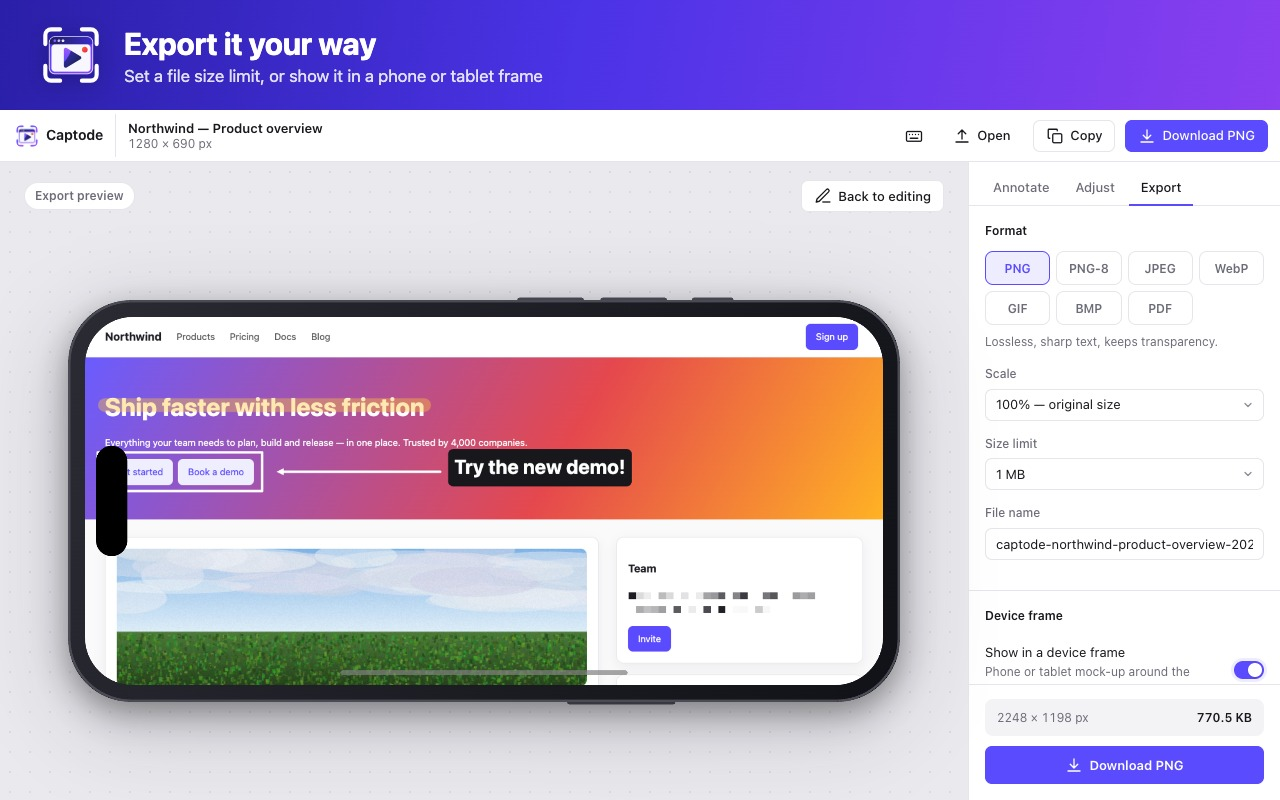
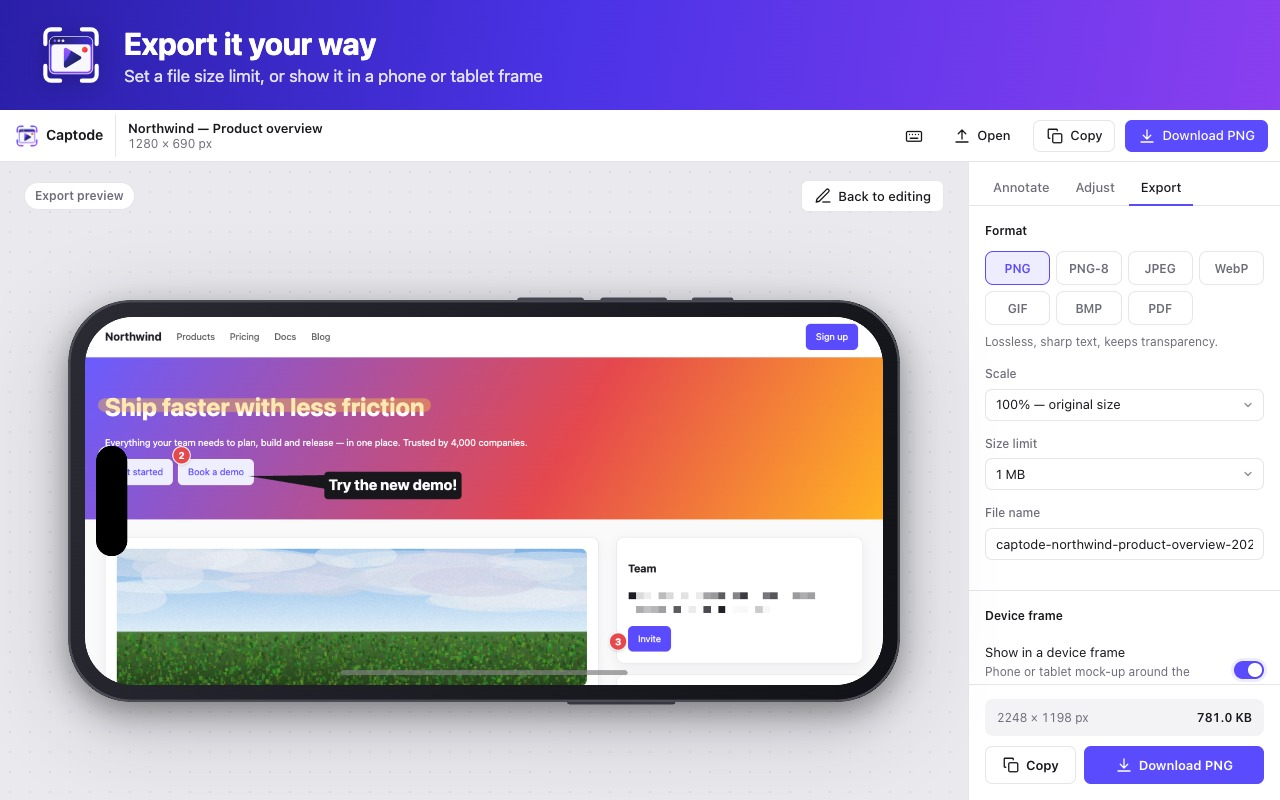
Editor: rotate and flip, zoom at the pointer, snapping, align and distribute
- Rotate a quarter turn either way, flip horizontally or vertically; annotations
  follow (text stays upright)
- Cmd/Ctrl + scroll and pinch zoom towards the pointer; buttons and keys zoom about
  the centre
- Moving and resizing snap edges and centres to the image and other annotations,
  with guide lines; Alt places freely
- Align left/centre/right/top/middle/bottom (to each other, or to the image for a
  single item) and space evenly across or down
- Store screenshot 2 shows callouts and numbered steps; README and listing describe
  the new editor

diff --git a/src/editor/editor.js b/src/editor/editor.js
@@ -629,6 +629,19 @@ function renderFg() {
     fctx.strokeRect(b.x - 4 * px, b.y - 4 * px, b.w + 8 * px, b.h + 8 * px);
     fctx.setLineDash([]);
   }
+  if (guides.length) {
+    fctx.save();
+    fctx.strokeStyle = '#ff3d9a';
+    fctx.lineWidth = px;
+    for (const g of guides) {
+      fctx.beginPath();
+      if ('x' in g) { fctx.moveTo(g.x, -frame.padding); fctx.lineTo(g.x, base.height + frame.padding); }
+      else { fctx.moveTo(-frame.padding, g.y); fctx.lineTo(base.width + frame.padding, g.y); }
+      fctx.stroke();
+    }
+    fctx.restore();
+    fctx.strokeStyle = '#5b4bff';
+  }
   if (drag?.kind === 'marquee') {
     const m = rectOf(drag.start, drag.end);
     fctx.fillStyle = 'rgba(91,75,255,0.08)';
@@ -765,6 +778,76 @@ function handles(o) {
   const hs = list.map(([id, hx, hy]) => ({ id, x: xs[hx], y: ys[hy] }));
   if (o.tail) hs.push({ id: 'tail', x: o.tail.x, y: o.tail.y });
   return hs;
+}
+
+// ---------- snapping and alignment ----------
+// Moving or resizing snaps edges and centres to the image's and to other annotations'
+// (hold Alt to place freely), with guide lines showing what lined up.
+
+let guides = []; // { x } or { y }, in image coordinates, while dragging
+
+/** Lines things can snap to: the image's edges and centre, and other annotations'. */
+function snapTargets(exclude) {
+  const xs = [0, base.width / 2, base.width], ys = [0, base.height / 2, base.height];
+  for (const o of objects) {
+    if (exclude.includes(o) || o.type === 'spotlight') continue;
+    const b = bounds(o);
+    xs.push(b.x, b.x + b.w / 2, b.x + b.w);
+    ys.push(b.y, b.y + b.h / 2, b.y + b.h);
+  }
+  return { xs, ys };
+}
+
+/** The smallest shift (within a few screen pixels) that lines one of `xs`/`ys` up with a target. */
+function snap(xs, ys, targets) {
+  const within = 6 / zoom;
+  const best = (vals, tgts) => {
+    let d = Infinity, at = null;
+    for (const v of vals) for (const t of tgts) if (Math.abs(t - v) < Math.abs(d)) { d = t - v; at = t; }
+    return Math.abs(d) <= within ? { d, at } : { d: 0, at: null };
+  };
+  const bx = best(xs, targets.xs), by = best(ys, targets.ys);
+  if (bx.at !== null) guides.push({ x: bx.at });
+  if (by.at !== null) guides.push({ y: by.at });
+  return { dx: bx.d, dy: by.d };
+}
+
+function startMove(pt, moved) {
+  const boxes = selection.map(bounds);
+  const x0 = Math.min(...boxes.map((b) => b.x)), y0 = Math.min(...boxes.map((b) => b.y));
+  const box = { x: x0, y: y0, w: Math.max(...boxes.map((b) => b.x + b.w)) - x0, h: Math.max(...boxes.map((b) => b.y + b.h)) - y0 };
+  return { kind: 'move', origin: pt, moved, from: selection.map(cloneObj), box, targets: snapTargets(selection) };
+}
+
+/** Lines the selection up: with one item, against the image; with more, against each other. */
+function align(how) {
+  if (!selection.length) return;
+  const boxes = selection.map(bounds);
+  const U = selection.length === 1 ? { x: 0, y: 0, w: base.width, h: base.height } : (() => {
+    const x0 = Math.min(...boxes.map((b) => b.x)), y0 = Math.min(...boxes.map((b) => b.y));
+    return { x: x0, y: y0, w: Math.max(...boxes.map((b) => b.x + b.w)) - x0, h: Math.max(...boxes.map((b) => b.y + b.h)) - y0 };
+  })();
+  if (how === 'dist-h' || how === 'dist-v') {
+    if (selection.length < 3) return;
+    const h = how === 'dist-h';
+    const order = selection.map((o, i) => ({ o, b: boxes[i] })).sort((a, b) => (h ? a.b.x - b.b.x : a.b.y - b.b.y));
+    const total = order.reduce((n, { b }) => n + (h ? b.w : b.h), 0);
+    const gap = ((h ? U.w : U.h) - total) / (order.length - 1);
+    let at = h ? U.x : U.y;
+    for (const { o, b } of order) {
+      moveObj(o, h ? at - b.x : 0, h ? 0 : at - b.y);
+      at += (h ? b.w : b.h) + gap;
+    }
+  } else {
+    selection.forEach((o, i) => {
+      const b = boxes[i];
+      const dx = { left: U.x - b.x, centre: U.x + U.w / 2 - (b.x + b.w / 2), right: U.x + U.w - (b.x + b.w) }[how] ?? 0;
+      const dy = { top: U.y - b.y, middle: U.y + U.h / 2 - (b.y + b.h / 2), bottom: U.y + U.h - (b.y + b.h) }[how] ?? 0;
+      moveObj(o, dx, dy);
+    });
+  }
+  renderFg();
+  commit();
 }
 
 const handleAt = (o, pt) => handles(o).find((h) => Math.hypot(h.x - pt.x, h.y - pt.y) <= 9 / zoom) || null;
@@ -980,7 +1063,7 @@ fg.addEventListener('pointerdown', (e) => {
       else drag = { kind: 'marquee', start: pt, end: pt, add: [...selection] };
     } else if (hit) {
       if (!isSelected(hit)) select([hit]);
-      drag = { kind: 'move', last: pt, moved: false };
+      drag = startMove(pt, false);
     } else {
       select([]);
       drag = { kind: 'marquee', start: pt, end: pt, add: [] };
@@ -1028,13 +1111,13 @@ fg.addEventListener('pointerdown', (e) => {
     const hit = topHit(pt);
     if (hit?.type === 'step') {
       select([hit]);
-      drag = { kind: 'move', last: pt, moved: false };
+      drag = startMove(pt, false);
     } else {
       select([{ type: 'step', ...propsFor('step'), n: nextStep(), x: pt.x, y: pt.y }]);
       objects.push(selected);
       lastStep = selected;
       stepStart = null;
-      drag = { kind: 'move', last: pt, moved: true }; // drag to place it exactly
+      drag = startMove(pt, true); // drag to place it exactly
     }
     syncStyleUi();
     renderFg();
@@ -1066,7 +1149,16 @@ fg.addEventListener('pointermove', (e) => {
     if (drag.h === 'tail') o.tail = { x: pt.x, y: pt.y };
     else if (drag.h === 'p1') { o.x1 = pt.x; o.y1 = pt.y; }
     else if (drag.h === 'p2') { const q = snapEnd(o, pt, e.shiftKey); o.x2 = q.x; o.y2 = q.y; }
-    else applyBox(o, drag.from, drag.box, resizedBox(drag.box, drag.h, pt, UNIFORM.has(o.type) || e.shiftKey));
+    else {
+      guides = [];
+      const q = { ...pt };
+      if (!e.altKey) {
+        const t = snapTargets([o]);
+        const s = snap(/[we]/.test(drag.h) ? [pt.x] : [], /[ns]/.test(drag.h) ? [pt.y] : [], t);
+        q.x += s.dx; q.y += s.dy;
+      }
+      applyBox(o, drag.from, drag.box, resizedBox(drag.box, drag.h, q, UNIFORM.has(o.type) || e.shiftKey));
+    }
   } else if (drag.kind === 'marquee') {
     drag.end = pt;
     const m = rectOf(drag.start, pt);
@@ -1074,9 +1166,16 @@ fg.addEventListener('pointermove', (e) => {
     select([...new Set([...drag.add, ...inBox])]);
     syncStyleUi();
   } else if (drag.kind === 'move') {
-    for (const o of selection) moveObj(o, pt.x - drag.last.x, pt.y - drag.last.y);
-    drag.last = pt;
-    drag.moved = true;
+    // From where the drag began, so snapping doesn't accumulate.
+    let dx = pt.x - drag.origin.x, dy = pt.y - drag.origin.y;
+    guides = [];
+    if (!e.altKey) {
+      const b = drag.box;
+      const s = snap([b.x + dx, b.x + b.w / 2 + dx, b.x + b.w + dx], [b.y + dy, b.y + b.h / 2 + dy, b.y + b.h + dy], drag.targets);
+      dx += s.dx; dy += s.dy;
+    }
+    drag.from.forEach((f, i) => { Object.assign(selection[i], structuredClone(f)); moveObj(selection[i], dx, dy); });
+    drag.moved ||= Math.hypot(dx, dy) > 0;
   } else if (drag.kind === 'crop') {
     const s = drag.start;
     let w = pt.x - s.x;
@@ -1119,6 +1218,7 @@ function endDrag() {
   if (!drag) return;
   const d = drag;
   drag = null;
+  guides = [];
   if (d.kind === 'draw') {
     const o = d.o;
     const tiny = !o.points && Math.hypot(o.x2 - o.x1, o.y2 - o.y1) < 3;
@@ -1177,8 +1277,23 @@ addEventListener('blur', () => setSpacePan(false));
 stage.addEventListener('wheel', (e) => {
   if (!e.ctrlKey && !e.metaKey) return;
   e.preventDefault();
-  setZoom(zoom * (e.deltaY < 0 ? 1.1 : 1 / 1.1));
+  // Trackpad pinches arrive as small steps, mouse wheels as large ones.
+  const f = Math.exp(-clamp(e.deltaY, -50, 50) * 0.01);
+  zoomAt(zoom * f, e.clientX, e.clientY);
 }, { passive: false });
+
+/** Zooms keeping the point under (cx, cy) on screen still. */
+function zoomAt(z, cx, cy) {
+  if (!base) return;
+  const before = wrap.getBoundingClientRect();
+  const ix = (cx - before.left) / zoom, iy = (cy - before.top) / zoom;
+  setZoom(z);
+  const after = wrap.getBoundingClientRect();
+  stage.scrollLeft += after.left + ix * zoom - cx;
+  stage.scrollTop += after.top + iy * zoom - cy;
+  requestRender(true);
+}
+const stageCentre = () => { const r = stage.getBoundingClientRect(); return [r.left + r.width / 2, r.top + r.height / 2]; };
 
 // ---------- inspector tabs ----------
 
@@ -1307,8 +1422,8 @@ document.addEventListener('keydown', (e) => {
   if (mod) return;
   const t = TOOLS.find(([, , key]) => key === e.key.toLowerCase());
   if (t) setTool(t[0]);
-  if (e.key === '+' || e.key === '=') setZoom(zoom * 1.25);
-  if (e.key === '-') setZoom(zoom / 1.25);
+  if (e.key === '+' || e.key === '=') zoomAt(zoom * 1.25, ...stageCentre());
+  if (e.key === '-') zoomAt(zoom / 1.25, ...stageCentre());
   if (e.key === '0') fitZoom();
 });
 
@@ -1340,6 +1455,8 @@ function syncStyleUi() {
   for (const g of document.querySelectorAll('[data-group]')) g.classList.toggle('hidden', !groups.includes(g.dataset.group));
   $('#style-hint').classList.toggle('hidden', !!type);
   $('#arrange').classList.toggle('hidden', !selection.length);
+  for (const b of document.querySelectorAll('[data-align^="dist"]')) b.disabled = selection.length < 3;
+  $('#align-label').textContent = selection.length > 1 ? 'Align' : 'Align to the image';
   const n = selection.length;
   $('#style-title').textContent = !type ? 'Annotate'
     : type === 'mixed' ? `${n} items selected`
@@ -1558,6 +1675,50 @@ $('#rs-apply').addEventListener('click', async () => {
   toast(`Resized to ${w} × ${h}`, { kind: 'success' });
 });
 
+/**
+ * Rotates the image a quarter turn (dir 1: clockwise, -1: anticlockwise) or flips it
+ * ('h' or 'v'), taking the annotations with it. Text stays upright, centred where it was.
+ */
+function transformImage(kind) {
+  if (!base) return;
+  const W = base.width, H = base.height;
+  const map = {
+    cw: ([x, y]) => [H - y, x],
+    ccw: ([x, y]) => [y, W - x],
+    h: ([x, y]) => [W - x, y],
+    v: ([x, y]) => [x, H - y],
+  }[kind];
+  const turn = kind === 'cw' || kind === 'ccw';
+  const c = canvas(turn ? H : W, turn ? W : H);
+  const cx = c.getContext('2d');
+  if (kind === 'cw') { cx.translate(H, 0); cx.rotate(Math.PI / 2); }
+  else if (kind === 'ccw') { cx.translate(0, W); cx.rotate(-Math.PI / 2); }
+  else if (kind === 'h') { cx.translate(W, 0); cx.scale(-1, 1); }
+  else { cx.translate(0, H); cx.scale(1, -1); }
+  cx.drawImage(base, 0, 0);
+  for (const o of objects) {
+    if (o.points) o.points = o.points.map(map);
+    else if (o.type === 'text' || o.type === 'step') {
+      const b = o.type === 'text' ? textBox(o) : { x: o.x, y: o.y, w: 0, h: 0 };
+      const [nx, ny] = map([b.x + b.w / 2, b.y + b.h / 2]);
+      o.x = nx - b.w / 2; o.y = ny - b.h / 2;
+      if (o.tail) { const [tx, ty] = map([o.tail.x, o.tail.y]); o.tail = { x: tx, y: ty }; }
+    } else {
+      [o.x1, o.y1] = map([o.x1, o.y1]);
+      [o.x2, o.y2] = map([o.x2, o.y2]);
+    }
+  }
+  base = c;
+  crop = null;
+  layout();
+  fitZoom();
+  commit();
+}
+$('#rot-ccw').addEventListener('click', () => transformImage('ccw'));
+$('#rot-cw').addEventListener('click', () => transformImage('cw'));
+$('#flip-h').addEventListener('click', () => transformImage('h'));
+$('#flip-v').addEventListener('click', () => transformImage('v'));
+
 function setBackdrop(bg) {
   frame.bg = bg;
   syncFrameUi();
@@ -1591,11 +1752,12 @@ for (const id of ['f-pad', 'f-bg', 'f-radius', 'f-shadow']) {
 
 // ---------- zoom & toolbar ----------
 
-$('#zoom-in').addEventListener('click', () => setZoom(zoom * 1.25));
-$('#zoom-out').addEventListener('click', () => setZoom(zoom / 1.25));
+$('#zoom-in').addEventListener('click', () => zoomAt(zoom * 1.25, ...stageCentre()));
+$('#zoom-out').addEventListener('click', () => zoomAt(zoom / 1.25, ...stageCentre()));
 $('#zoom-label').addEventListener('click', () => (zoom === 1 ? fitZoom() : setZoom(1)));
 $('#undo-all').addEventListener('click', undoAll);
 $('#a-front').addEventListener('click', () => arrange(true));
+for (const b of document.querySelectorAll('[data-align]')) b.addEventListener('click', () => align(b.dataset.align));
 $('#a-back').addEventListener('click', () => arrange(false));
 $('#a-dup').addEventListener('click', duplicateSelected);
 $('#a-del').addEventListener('click', deleteSelected);

diff --git a/src/editor/editor.html b/src/editor/editor.html
@@ -178,6 +178,17 @@
             <button class="btn icon" id="a-dup" data-tip="Duplicate  ⌘D"><svg class="i" viewBox="0 0 24 24"><rect x="8" y="8" width="12" height="12" rx="2"/><path d="M4 16V5a1 1 0 0 1 1-1h11M14 11v6M11 14h6"/></svg></button>
             <button class="btn icon" id="a-del" data-tip="Delete  ⌫"><svg class="i" viewBox="0 0 24 24"><path d="M3 6h18M8 6V4h8v2M6 6l1 14h10l1-14"/></svg></button>
           </div>
+          <span class="label" id="align-label">Align</span>
+          <div class="row align-row">
+            <button class="btn icon" data-align="left" data-tip="Align left"><svg class="i" viewBox="0 0 24 24"><path d="M4 3v18"/><rect x="8" y="6" width="12" height="4" rx="1"/><rect x="8" y="14" width="7" height="4" rx="1"/></svg></button>
+            <button class="btn icon" data-align="centre" data-tip="Align centres"><svg class="i" viewBox="0 0 24 24"><path d="M12 3v18"/><rect x="5" y="6" width="14" height="4" rx="1"/><rect x="8" y="14" width="8" height="4" rx="1"/></svg></button>
+            <button class="btn icon" data-align="right" data-tip="Align right"><svg class="i" viewBox="0 0 24 24"><path d="M20 3v18"/><rect x="4" y="6" width="12" height="4" rx="1"/><rect x="9" y="14" width="7" height="4" rx="1"/></svg></button>
+            <button class="btn icon" data-align="top" data-tip="Align top"><svg class="i" viewBox="0 0 24 24"><path d="M3 4h18"/><rect x="6" y="8" width="4" height="12" rx="1"/><rect x="14" y="8" width="4" height="7" rx="1"/></svg></button>
+            <button class="btn icon" data-align="middle" data-tip="Align middles"><svg class="i" viewBox="0 0 24 24"><path d="M3 12h18"/><rect x="6" y="5" width="4" height="14" rx="1"/><rect x="14" y="8" width="4" height="8" rx="1"/></svg></button>
+            <button class="btn icon" data-align="bottom" data-tip="Align bottom"><svg class="i" viewBox="0 0 24 24"><path d="M3 20h18"/><rect x="6" y="4" width="4" height="12" rx="1"/><rect x="14" y="9" width="4" height="7" rx="1"/></svg></button>
+            <button class="btn icon" data-align="dist-h" data-tip="Space evenly across"><svg class="i" viewBox="0 0 24 24"><path d="M3 4v16M21 4v16"/><rect x="9" y="7" width="6" height="10" rx="1"/></svg></button>
+            <button class="btn icon" data-align="dist-v" data-tip="Space evenly down"><svg class="i" viewBox="0 0 24 24"><path d="M4 3h16M4 21h16"/><rect x="7" y="9" width="10" height="6" rx="1"/></svg></button>
+          </div>
         </div>
 
         <div data-group="crop">
@@ -206,6 +217,15 @@
         <div class="row presets">
           <button class="btn" data-pct="0.25">25%</button><button class="btn" data-pct="0.5">50%</button>
           <button class="btn" data-pct="0.75">75%</button><button class="btn primary" id="rs-apply">Resize</button>
+        </div>
+      </section>
+      <section class="section">
+        <h3 class="section-title">Rotate and flip</h3>
+        <div class="row presets">
+          <button class="btn icon" id="rot-ccw" data-tip="Rotate left"><svg class="i" viewBox="0 0 24 24"><path d="M3 12a9 9 0 1 0 3-6.7L3 8"/><path d="M3 3v5h5"/></svg></button>
+          <button class="btn icon" id="rot-cw" data-tip="Rotate right"><svg class="i" viewBox="0 0 24 24"><path d="M21 12a9 9 0 1 1-3-6.7L21 8"/><path d="M21 3v5h-5"/></svg></button>
+          <button class="btn icon" id="flip-h" data-tip="Flip horizontally"><svg class="i" viewBox="0 0 24 24"><path d="M12 3v18"/><path d="M8 7 3 12l5 5V7zM16 7l5 5-5 5V7z"/></svg></button>
+          <button class="btn icon" id="flip-v" data-tip="Flip vertically"><svg class="i" viewBox="0 0 24 24"><path d="M3 12h18"/><path d="M7 8l5-5 5 5H7zM7 16l5 5 5-5H7z"/></svg></button>
         </div>
       </section>
       <section class="section">
@@ -316,10 +336,11 @@
     <div><span>Deselect</span><span><kbd>Esc</kbd></span></div>
     <div><span>Nudge (10 px with ⇧)</span><span><kbd>←</kbd><kbd>↑</kbd><kbd>→</kbd><kbd>↓</kbd></span></div>
     <div><span>Straight line or square</span><span><kbd>⇧</kbd> + drag</span></div>
+    <div><span>Move or resize without snapping</span><span><kbd>Alt</kbd> + drag</span></div>
     <div><span>Edit text</span><span>Double-click</span></div>
     <div><span>Apply crop</span><span><kbd>Enter</kbd></span></div>
     <h3>View and file</h3>
-    <div><span>Zoom in / out</span><span><kbd>+</kbd> <kbd>−</kbd></span></div>
+    <div><span>Zoom in / out</span><span><kbd>+</kbd> <kbd>−</kbd>, or <kbd>⌘</kbd> + scroll at the pointer</span></div>
     <div><span>Fit to window</span><span><kbd>0</kbd></span></div>
     <div><span>Download</span><span><kbd>⌘</kbd> <kbd>S</kbd></span></div>
     <div><span>Copy image</span><span><kbd>⇧</kbd> <kbd>⌘</kbd> <kbd>C</kbd></span></div>

diff --git a/src/editor/editor.css b/src/editor/editor.css
@@ -147,3 +147,5 @@ body { display: flex; flex-direction: column; overflow: hidden; }
 .arrange { margin-top: 14px; padding-top: 14px; border-top: 1px solid var(--line); display: grid; gap: 8px; }
 .arrange .row { justify-content: flex-start; }
 .arrange .row > .btn { flex: none; }
+.align-row { flex-wrap: wrap; gap: 4px; }
+.align-row .btn.icon { width: 30px; height: 30px; }

diff --git a/README.md b/README.md
@@ -15,18 +15,29 @@ export to the format you need. Captode runs entirely in your browser. Nothing is
 
 The capture opens in the editor, where you can:
 
-- **Crop**, freely or to 1:1, 16:9, 4:3, 9:16 or 3:4.
+- **Crop**, freely or to 1:1, 16:9, 4:3, 9:16 or 3:4. **Rotate** a quarter turn either way
+  and **flip**, with your annotations following.
 - **Draw** with a pen or highlighter.
-- **Add shapes:** lines, arrows, rectangles and ellipses, with stroke colour, fill, thickness and opacity.
+- **Add shapes:** lines, arrows, rectangles and ellipses, with stroke colour, fill, thickness,
+  opacity, and solid, dashed or dotted lines; arrows can have heads at both ends.
+- **Callouts:** speech bubbles whose tail points at what you're talking about.
+- **Spotlight** an area by dimming everything else, or **magnify** a detail with a lens.
 - **Add text:** choose the font (including fonts installed on your computer), size (A− / A+),
   bold, italic, text colour and background colour.
 - **Number the steps:** each click adds a numbered marker (1, 2, 3…) in the colour and
   size you choose; start from any number, or renumber one.
 - **Blur, pixelate or black out** sensitive details.
-- Select, move, restyle and delete anything you added. Undo and redo, or **Undo all** to go
-  back to the original (itself undoable).
+- Select, move, resize (handles on every annotation), restyle and delete anything you
+  added. **Select several** with Shift-click or by dragging a box, then move, restyle,
+  duplicate, copy and paste (between editor tabs too), bring to front or send to back,
+  **align** and **space evenly**. Moving and resizing **snap** to edges and centres, with
+  guides (hold Alt to place freely). Undo and redo, or **Undo all** to go back to the
+  original (itself undoable).
+- **Your edits are kept** with the capture, so reopening it from Recent captures picks up
+  where you left off.
+- **Large captures stay fast:** the editor draws only what's on screen.
 - **Pan** around a zoomed-in or long capture with the hand tool, by holding Space, or with
-  the middle mouse button.
+  the middle mouse button; ⌘/Ctrl + scroll zooms towards the pointer.
 - **Resize** to exact pixel sizes, with or without keeping the proportions.
 - **Frame** the shot with padding, a backdrop colour, rounded corners and a shadow.
 - **Set a size limit** (100 KB to 25 MB) and Captode finds the best quality that fits,

diff --git a/store/listing.md b/store/listing.md
@@ -45,8 +45,10 @@ out with a mouse, finger or pen. Long pages are stitched cleanly, with sticky he
 shown once.
 
 Mark up
-Add arrows, shapes, text, highlights and numbered steps, and blur or black out anything
-private before you share. Crop, resize, or add padding, a background and a shadow. Every tool has a
+Add arrows, shapes, text, callouts, highlights and numbered steps, spotlight or magnify
+what matters, and blur or black out anything private before you share. Select several
+things to align, arrange or copy them, and pick up where you left off: your edits are
+kept with each capture. Crop, resize, or add padding, a background and a shadow. Every tool has a
 keyboard shortcut, and changes can be undone.
 
 Save
